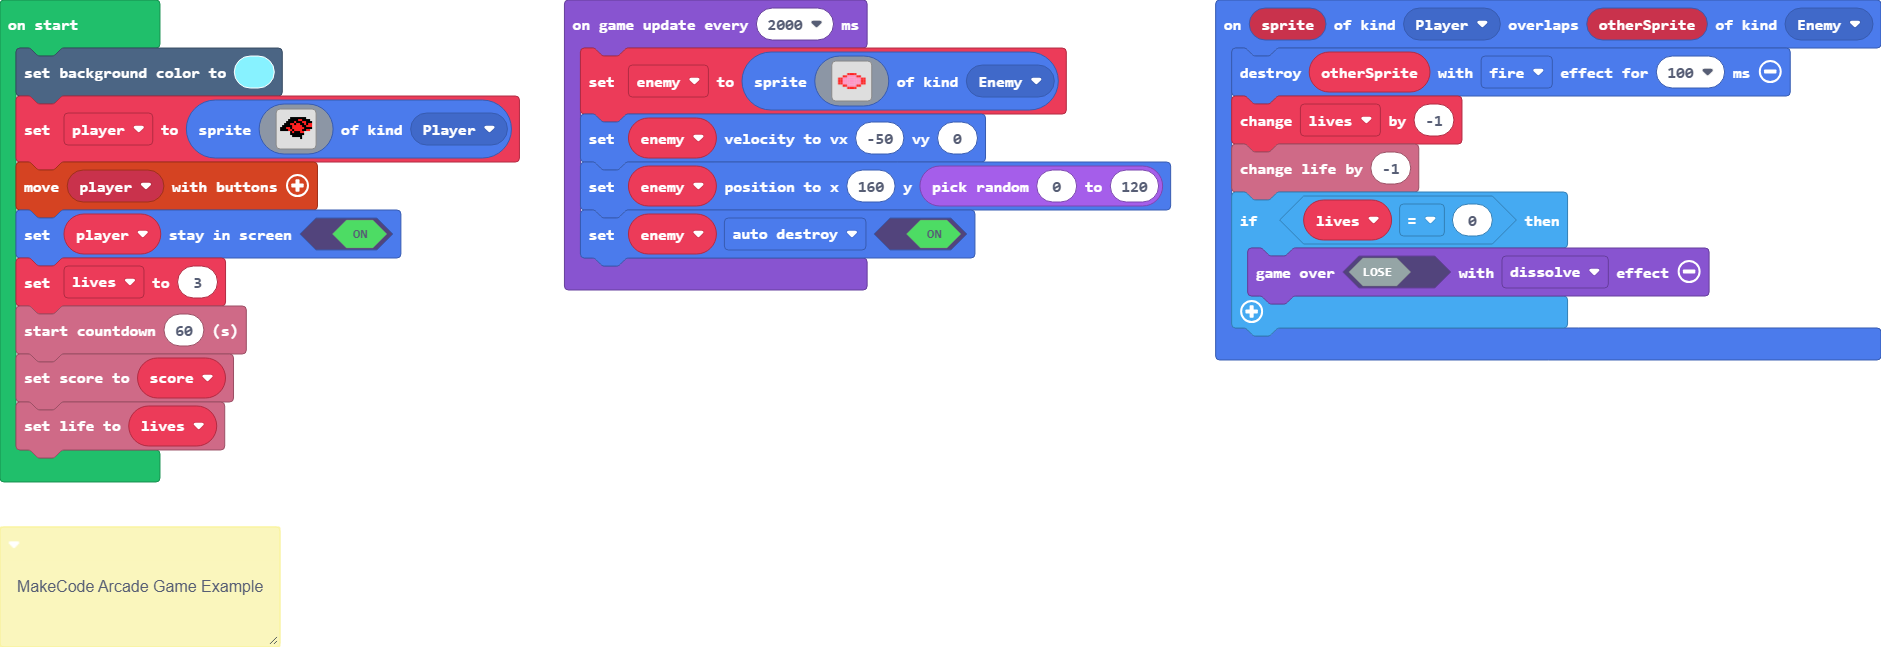
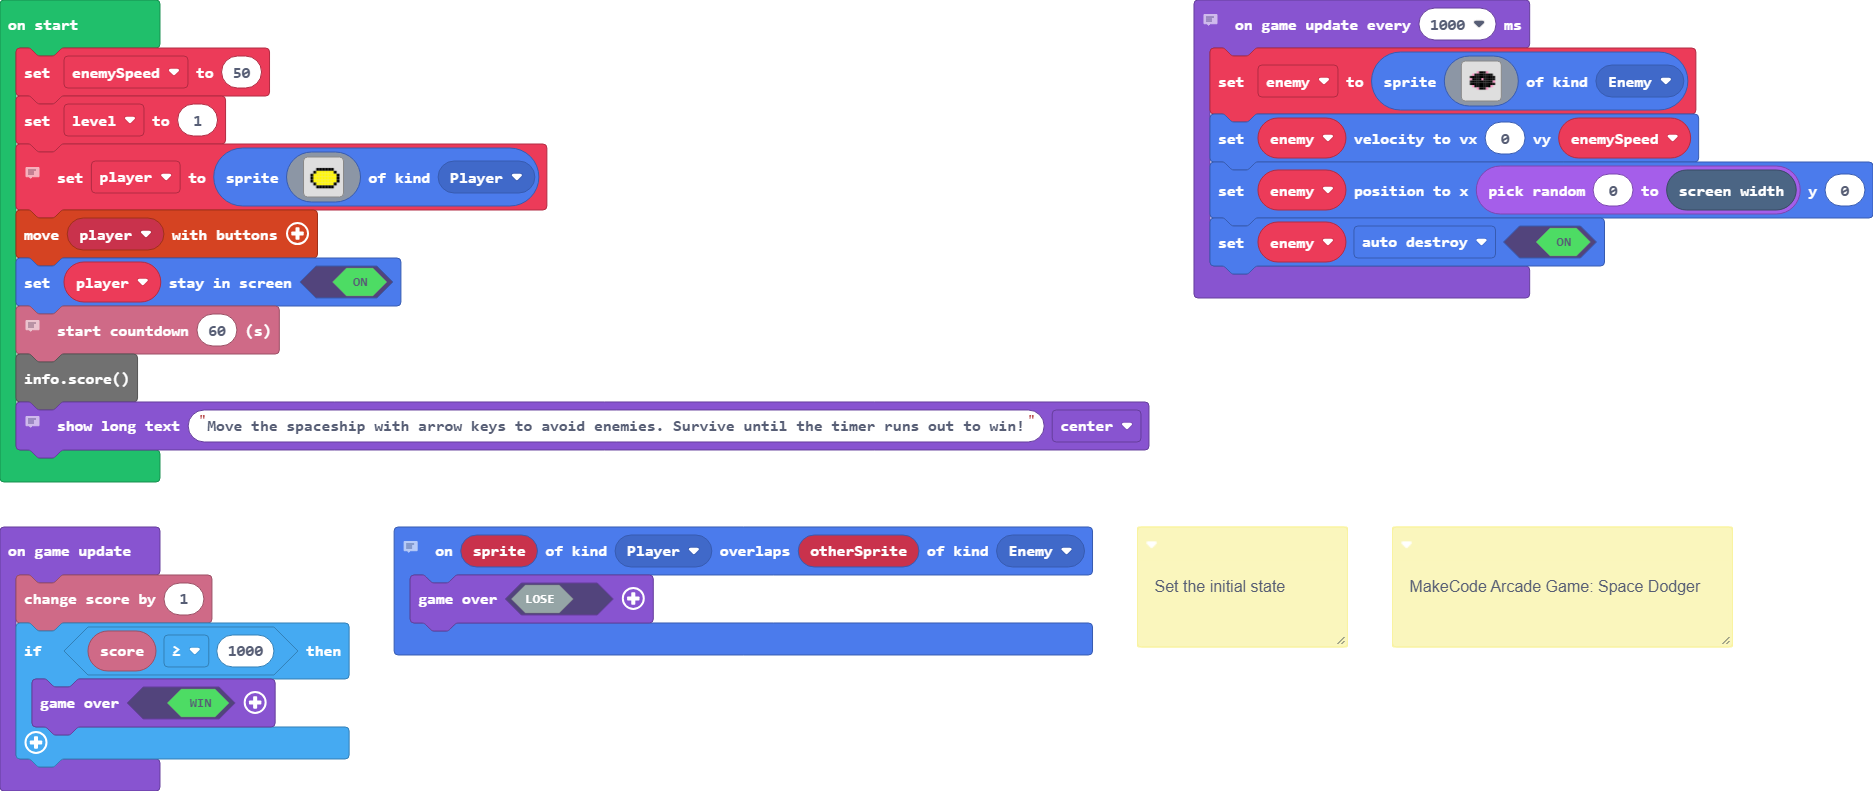
Update pxt.json, main.blocks, main.ts

diff --git a/main.ts b/main.ts
@@ -1,51 +1,55 @@
 /**
- * MakeCode Arcade Game Example
+ * Set the initial state
  */
+/**
+ * MakeCode Arcade Game: Space Dodger
+ */
+// Collision with enemy mechanics - player loses
 sprites.onOverlap(SpriteKind.Player, SpriteKind.Enemy, function (sprite, otherSprite) {
-    otherSprite.destroy(effects.fire, 100)
-    lives += -1
-    info.changeLifeBy(-1)
-    if (lives == 0) {
-        game.over(false, effects.dissolve)
-    }
+    game.over(false)
 })
 let enemy: Sprite = null
-let score = 0
-let lives = 0
-scene.setBackgroundColor(9)
+let enemySpeed = 50
+let level = 1
+// Initialize the player
 let player = sprites.create(img`
-    . . . . . . . . . . . . . . . . 
-    . . . . . f f f f f f f f . . . 
-    . . . . f f f f f 2 2 f f f f . 
-    . . . f f f f 2 f f f 2 2 f f f 
-    . . f f f 2 2 f 2 2 f f 2 f 2 2 
-    . f f f f f 2 2 2 2 2 f f 2 2 2 
-    f f f 2 2 f 2 2 2 2 2 2 f f f f 
-    f f f f 2 2 f 2 2 2 2 f f 2 2 . 
-    . . . . . f 2 f f f 2 2 . . . . 
-    . . . . . f f f f f f f . . . . 
-    . . . . . . f f f f f . . . . . 
-    . . . . . . . . . . f . . . . . 
-    . . . . . . . . . . . . . . . . 
-    . . . . . . . . . . . . . . . . 
+    . . . . . . . . . . . 
+    . . . f f f f f f . . 
+    . . f 5 5 5 5 5 5 f . 
+    . f 5 5 5 5 5 5 5 5 f 
+    . f 5 5 5 5 5 5 5 5 f 
+    . f 5 5 5 5 5 5 5 5 f 
+    . . f 5 5 5 5 5 5 f . 
+    . . . f f f f f f . . 
     `, SpriteKind.Player)
 controller.moveSprite(player)
 player.setStayInScreen(true)
-lives = 3
+// Score and win condition
 info.startCountdown(60)
-info.setScore(score)
-info.setLife(lives)
-game.onUpdateInterval(2000, function () {
+info.score()
+// Instructions for player
+game.showLongText("Move the spaceship with arrow keys to avoid enemies. Survive until the timer runs out to win!", DialogLayout.Center)
+game.onUpdate(function () {
+    info.changeScoreBy(1)
+    if (info.score() >= 1000) {
+        game.over(true)
+    }
+})
+// Create enemies
+game.onUpdateInterval(1000, function () {
     enemy = sprites.create(img`
-        . . . . . 2 2 2 2 . . . . . 
-        . . . 2 2 3 3 3 3 2 2 . . . 
-        . 2 2 3 3 3 3 3 3 3 3 2 2 . 
-        . 2 2 3 3 3 3 3 3 3 3 2 2 . 
-        . 2 2 3 3 3 3 3 3 3 3 2 2 . 
-        . . . 2 2 3 3 3 3 2 2 . . . 
-        . . . . . 2 2 2 2 . . . . . 
+        . . . . . . . . . . . . . . 
+        . . . . . 3 f f f 3 . . . . 
+        . . . 3 f f f f f f f f . . 
+        . . f f f f f f f f f f f . 
+        . . 3 f f f f 3 f f f f f . 
+        . . f f f f f f f f f f 3 . 
+        . . f f f f f f f f f f f . 
+        . . . 3 f f f f f f f 3 . . 
+        . . . . . 3 f f f 3 . . . . 
+        . . . . . . . . . . . . . . 
         `, SpriteKind.Enemy)
-    enemy.setVelocity(-50, 0)
-    enemy.setPosition(160, Math.randomRange(0, 120))
+    enemy.setVelocity(0, enemySpeed)
+    enemy.setPosition(Math.randomRange(0, scene.screenWidth()), 0)
     enemy.setFlag(SpriteFlag.AutoDestroy, true)
 })
